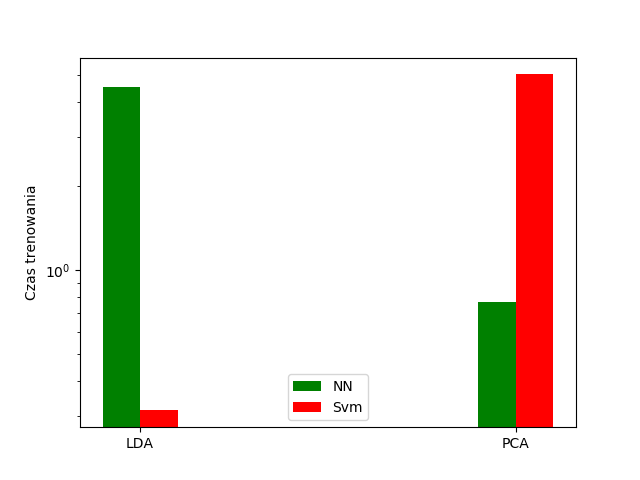
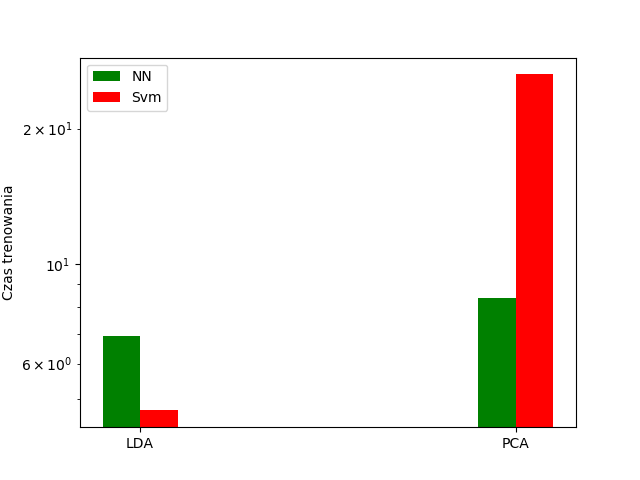
working cross validation

diff --git a/src/postprocessing/processResults.py b/src/postprocessing/processResults.py
@@ -116,49 +116,3 @@ class ProcessResults:
             errorTables.append(toAdd)
 
         return errorTables
-
-
-
-
-if __name__ == "__main__":
-
-    arg = {'PCA': {'KNN': {'fit_time': np.array([0.00968719, 0.0080564 , 0.0080688 , 0.00797415, 0.00798082,
-       0.00798798, 0.00797248, 0.0079987 , 0.00809264, 0.00801897]), 'score_time': np.array([0.11342382, 0.11434889, 0.11300707, 0.10947371, 0.11200714,
-       0.10977364, 0.11077929, 0.11133409, 0.11019111, 0.11045718]), 'test_score': np.array([0.69411765, 0.63905325, 0.62874251, 0.66666667, 0.70121951,
-       0.68292683, 0.70731707, 0.69512195, 0.67901235, 0.75776398]), 'train_score': np.array([0.81756757, 0.81498987, 0.81861092, 0.83434343, 0.81763122,
-       0.83109017, 0.82907133, 0.81763122, 0.8219086 , 0.82740094])}, 'NaiveBayes': {'fit_time': np.array([0.00779319, 0.00751185, 0.00731277, 0.00751424, 0.00730729,
-       0.00734282, 0.00748038, 0.00731277, 0.00729465, 0.00743866]), 'score_time': np.array([0.00356483, 0.00325227, 0.00312686, 0.00316954, 0.00313854,
-       0.00308084, 0.00316453, 0.00308681, 0.00306582, 0.00312424]), 'test_score': np.array([0.66470588, 0.63313609, 0.66467066, 0.63636364, 0.69512195,
-       0.63414634, 0.58536585, 0.67073171, 0.65432099, 0.65838509]), 'train_score': np.array([0.81959459, 0.82309251, 0.83142279, 0.82828283, 0.83310902,
-       0.83580081, 0.82234186, 0.82368775, 0.82526882, 0.83008731])}, 'RandomForest': {'fit_time': np.array([0.19384027, 0.18281579, 0.19550157, 0.18748212, 0.18336797,
-       0.18250608, 0.19075036, 0.18655276, 0.18812203, 0.1872735 ]), 'score_time': np.array([0.00224757, 0.00223827, 0.00222588, 0.00221658, 0.00217295,
-       0.00218797, 0.00220132, 0.00217748, 0.00218844, 0.002177  ]), 'test_score': np.array([0.36470588, 0.39053254, 0.34131737, 0.38787879, 0.40243902,
-       0.31707317, 0.25      , 0.34146341, 0.37037037, 0.41614907]), 'train_score': np.array([0.99324324, 0.99594868, 0.99460553, 0.99461279, 0.99461642,
-       0.99461642, 0.99528937, 0.9986541 , 0.99663978, 0.99261249])}}, 'PCA with LBP': {'KNN': {'fit_time': np.array([0.01293945, 0.01088142, 0.01083732, 0.01108479, 0.0109129 ,
-       0.01089716, 0.01103973, 0.01085806, 0.01093102, 0.0110178 ]), 'score_time': np.array([0.17147684, 0.17231917, 0.16969657, 0.16598153, 0.16726708,
-       0.1670866 , 0.16702414, 0.16674972, 0.16383004, 0.1651361 ]), 'test_score': np.array([0.59411765, 0.66272189, 0.64670659, 0.61212121, 0.73170732,
-       0.64634146, 0.70731707, 0.68292683, 0.64197531, 0.68322981]), 'train_score': np.array([0.80675676, 0.80081026, 0.80107889, 0.80808081, 0.80686406,
-       0.80753701, 0.80417227, 0.80686406, 0.81653226, 0.80456682])}, 'NaiveBayes': {'fit_time': np.array([0.01051521, 0.00996041, 0.009866  , 0.00977707, 0.00977349,
-       0.00978661, 0.00982666, 0.00999451, 0.00987124, 0.00995779]), 'score_time': np.array([0.0042274 , 0.00423408, 0.00410175, 0.00416398, 0.00404572,
-       0.00448346, 0.00405574, 0.00404716, 0.00405455, 0.00400996]), 'test_score': np.array([0.66470588, 0.67455621, 0.62874251, 0.61212121, 0.67073171,
-       0.65243902, 0.65853659, 0.68292683, 0.63580247, 0.67701863]), 'train_score': np.array([0.73783784, 0.73396354, 0.73904248, 0.73602694, 0.72678331,
-       0.73687752, 0.73149394, 0.71870794, 0.7405914 , 0.73069174])}, 'RandomForest': {'fit_time': np.array([0.21763515, 0.21272755, 0.20606971, 0.21277308, 0.21760917,
-       0.2097652 , 0.21282101, 0.21377826, 0.22098899, 0.21546745]), 'score_time': np.array([0.00239491, 0.00228119, 0.00225902, 0.00239253, 0.00225139,
-       0.00245786, 0.0023675 , 0.00226903, 0.00226665, 0.00238013]), 'test_score': np.array([0.47058824, 0.43195266, 0.38922156, 0.46666667, 0.45121951,
-       0.48170732, 0.48780488, 0.43292683, 0.43209877, 0.44720497]), 'train_score': np.array([0.9972973 , 0.99324781, 0.99797707, 0.99461279, 0.99730821,
-       0.99596231, 0.99528937, 0.99461642, 0.99596774, 0.99529886])}}, 'Skeletonize': {'KNN': {'fit_time': np.array([0.02523923, 0.02404642, 0.02382016, 0.02381349, 0.02406764,
-       0.02396703, 0.02401781, 0.02386189, 0.02382421, 0.02394748]), 'score_time': np.array([0.31307387, 0.31047225, 0.30740094, 0.30311131, 0.30443645,
-       0.30214047, 0.30259013, 0.30279326, 0.29862142, 0.2986331 ]), 'test_score': np.array([0.55294118, 0.5739645 , 0.60479042, 0.54545455, 0.59756098,
-       0.5       , 0.59146341, 0.56707317, 0.61728395, 0.60248447]), 'train_score': np.array([0.71418919, 0.72113437, 0.72825354, 0.72525253, 0.73889637,
-       0.72341857, 0.73149394, 0.73216689, 0.72715054, 0.72196105])}, 'NaiveBayes': {'fit_time': np.array([0.01865077, 0.01486683, 0.01521802, 0.01571035, 0.01508522,
-       0.01482081, 0.01497293, 0.01490545, 0.0154326 , 0.01495671]), 'score_time': np.array([0.00765657, 0.00625992, 0.00611281, 0.00617146, 0.00604653,
-       0.0059762 , 0.00636744, 0.00608587, 0.00599027, 0.00597596]), 'test_score': np.array([0.67058824, 0.66272189, 0.73053892, 0.65454545, 0.57317073,
-       0.56707317, 0.62804878, 0.6402439 , 0.70987654, 0.66459627]), 'train_score': np.array([0.80405405, 0.75286968, 0.76803776, 0.74478114, 0.74764468,
-       0.75841184, 0.75841184, 0.76514132, 0.76276882, 0.75352586])}, 'RandomForest': {'fit_time': np.array([0.06118035, 0.0665102 , 0.0669384 , 0.06444669, 0.06543732,
-       0.06452489, 0.06570935, 0.064533  , 0.06400084, 0.06574678]), 'score_time': np.array([0.00237107, 0.00221944, 0.00233197, 0.00228906, 0.00231194,
-       0.00228381, 0.00231409, 0.00234342, 0.00243855, 0.00230813]), 'test_score': np.array([0.43529412, 0.56213018, 0.49101796, 0.44848485, 0.48170732,
-       0.51219512, 0.51829268, 0.52439024, 0.47530864, 0.50310559]), 'train_score': np.array([0.99324324, 0.99392302, 0.99527984, 0.996633  , 0.99596231,
-       0.99798116, 0.99663526, 0.99596231, 0.99462366, 0.99529886])}}}
-
-    p = ProcessResults()
-    p.doStatisticalAnalysis(arg)

diff --git a/src/classifiers.py b/src/classifiers.py
@@ -1,10 +1,8 @@
 from sklearn import svm
 from sklearn.neural_network import MLPClassifier
-from sklearn.naive_bayes import GaussianNB
-from sklearn import neighbors
-from sklearn.ensemble import RandomForestClassifier
 
 from sklearn.model_selection import cross_validate
+from sklearn.pipeline import make_pipeline
 
 
 class ClassifiersComparison:
@@ -15,16 +13,19 @@ class ClassifiersComparison:
             'Svm': svm.LinearSVC()
         }
 
-    def compareClassifiers(self, data, target):
+
+    def compareClassifiers(self, extractor, data, target):
         results = {}
         for name, classifier in self.classifiersDict.items():
             print(name)
-            result = self.crossValidate(classifier, data, target)
+            clf = make_pipeline(extractor, classifier)
+            result = self.crossValidate(clf, data, target)
             results[name] = result
         return results
 
+
     def crossValidate(self, classifier, data, target):
-        k = 10
-        scores = cross_validate(classifier, data, target, cv=k)
+        K = 10
+        scores = cross_validate(classifier, data, target, cv=K)
         print(scores["test_score"].mean())
         return scores

diff --git a/src/main.py b/src/main.py
@@ -15,9 +15,6 @@ if __name__ == "__main__":
 
     x, y = Db().getGrayscale()
 
-    xTrainExtrator, x, yTrainExtrator, y = \
-        train_test_split(x, y, test_size=0.8, random_state=42)
-
     classifiersComparision = ClassifiersComparison()
     processResults = ProcessResults()
 
@@ -27,14 +24,9 @@ if __name__ == "__main__":
         print("="*40)
         print("Extractor: {}".format(name))
 
-        if name == 'RPCA':
-            extractor = extractionMethod(x, y)
-        else:
-            extractor = extractionMethod(xTrainExtrator, yTrainExtrator)
+        extractor = extractionMethod(x, y)
 
-        xExtracted = extractor.transform(x)
-
-        result = classifiersComparision.compareClassifiers(xExtracted, y)
+        result = classifiersComparision.compareClassifiers(extractor, x, y)
         results[name] = result
 
     processResults.process(results)

diff --git a/src/extractors/Lda.py b/src/extractors/Lda.py
@@ -4,19 +4,30 @@ import numpy as np
 from utils import flatten
 
 class Lda:
+
     def __init__(self, xTrain, yTrain):
         self.__engine = LDA(n_components=100)
 
         xFlat = self.flatten(xTrain)
         yFlat = np.array(yTrain, dtype="float64")
-        print("before fit")
         self.__engine.fit(xFlat, yFlat)
-        print("after fit")
+
+
+    def fit(self, xTrain, yTrain):
+        xFlat = self.flatten(xTrain)
+        yFlat = np.array(yTrain, dtype="float64")
+        self.__engine.fit(xFlat, yFlat)
 
 
     def transform(self, x):
         xFlat = flatten(x)
         return self.__engine.transform(xFlat)
+
+
+    def fit_transform(self, x, y):
+        self.fit(x,y)
+        return self.transform(x)
+
 
     def flatten(self, x):
         shape = x.shape

diff --git a/src/extractors/Pca.py b/src/extractors/Pca.py
@@ -17,6 +17,25 @@ class Pca:
         self.__engine = PCA(n_components = numFeatures)
         self.__engine.fit(xFlat)
 
+
+    def fit(self, xTrain, yTrain):
+        varianceThreshold = 0.95
+        self.__engine = PCA()
+
+        xFlat = flatten(xTrain)
+        self.__engine.fit(xFlat)
+        cumsum = np.cumsum(self.__engine.explained_variance_ratio_)
+        numFeatures = np.argmax(cumsum >= varianceThreshold) + 1
+
+        self.__engine = PCA(n_components = numFeatures)
+        self.__engine.fit(xFlat)
+
+
     def transform(self, x):
         xFlat = flatten(x)
         return self.__engine.transform(xFlat)
+
+
+    def fit_transform(self, x, y):
+        self.fit(x,y)
+        return self.transform(x)

diff --git a/doc/tables/pvalues.tex b/doc/tables/pvalues.tex
@@ -2,8 +2,8 @@
   \hline
   metoda ekstrakcji & NN & Svm \\
   \hline
-  p-wartość & 2.614867e-01 & 2.294327e-11 \\
+  p-wartość & 6.851668e-02 & 7.236945e-11 \\
   \hline
-  wartość statystyki F & 1.34 & 209.98 \\
+  wartość statystyki F & 3.75 & 182.78 \\
   \hline
 \end{tabular}

diff --git a/doc/tables/fit_time_table.tex b/doc/tables/fit_time_table.tex
@@ -2,8 +2,8 @@
   \hline
     & NN & Svm \\
   \hline
-  LDA & 4.53 & 0.31 \\
+  LDA & 6.90 & 4.72 \\
   \hline
-  PCA & 0.77 & 5.01 \\
+  PCA & 8.40 & 26.39 \\
   \hline
 \end{tabular}

diff --git a/doc/tables/acc_table.tex b/doc/tables/acc_table.tex
@@ -2,8 +2,8 @@
   \hline
     & NN & Svm \\
   \hline
-  LDA & 0.66 & 0.68 \\
+  LDA & 0.61 & 0.59 \\
   \hline
-  PCA & 0.64 & 0.45 \\
+  PCA & 0.59 & 0.42 \\
   \hline
 \end{tabular}
